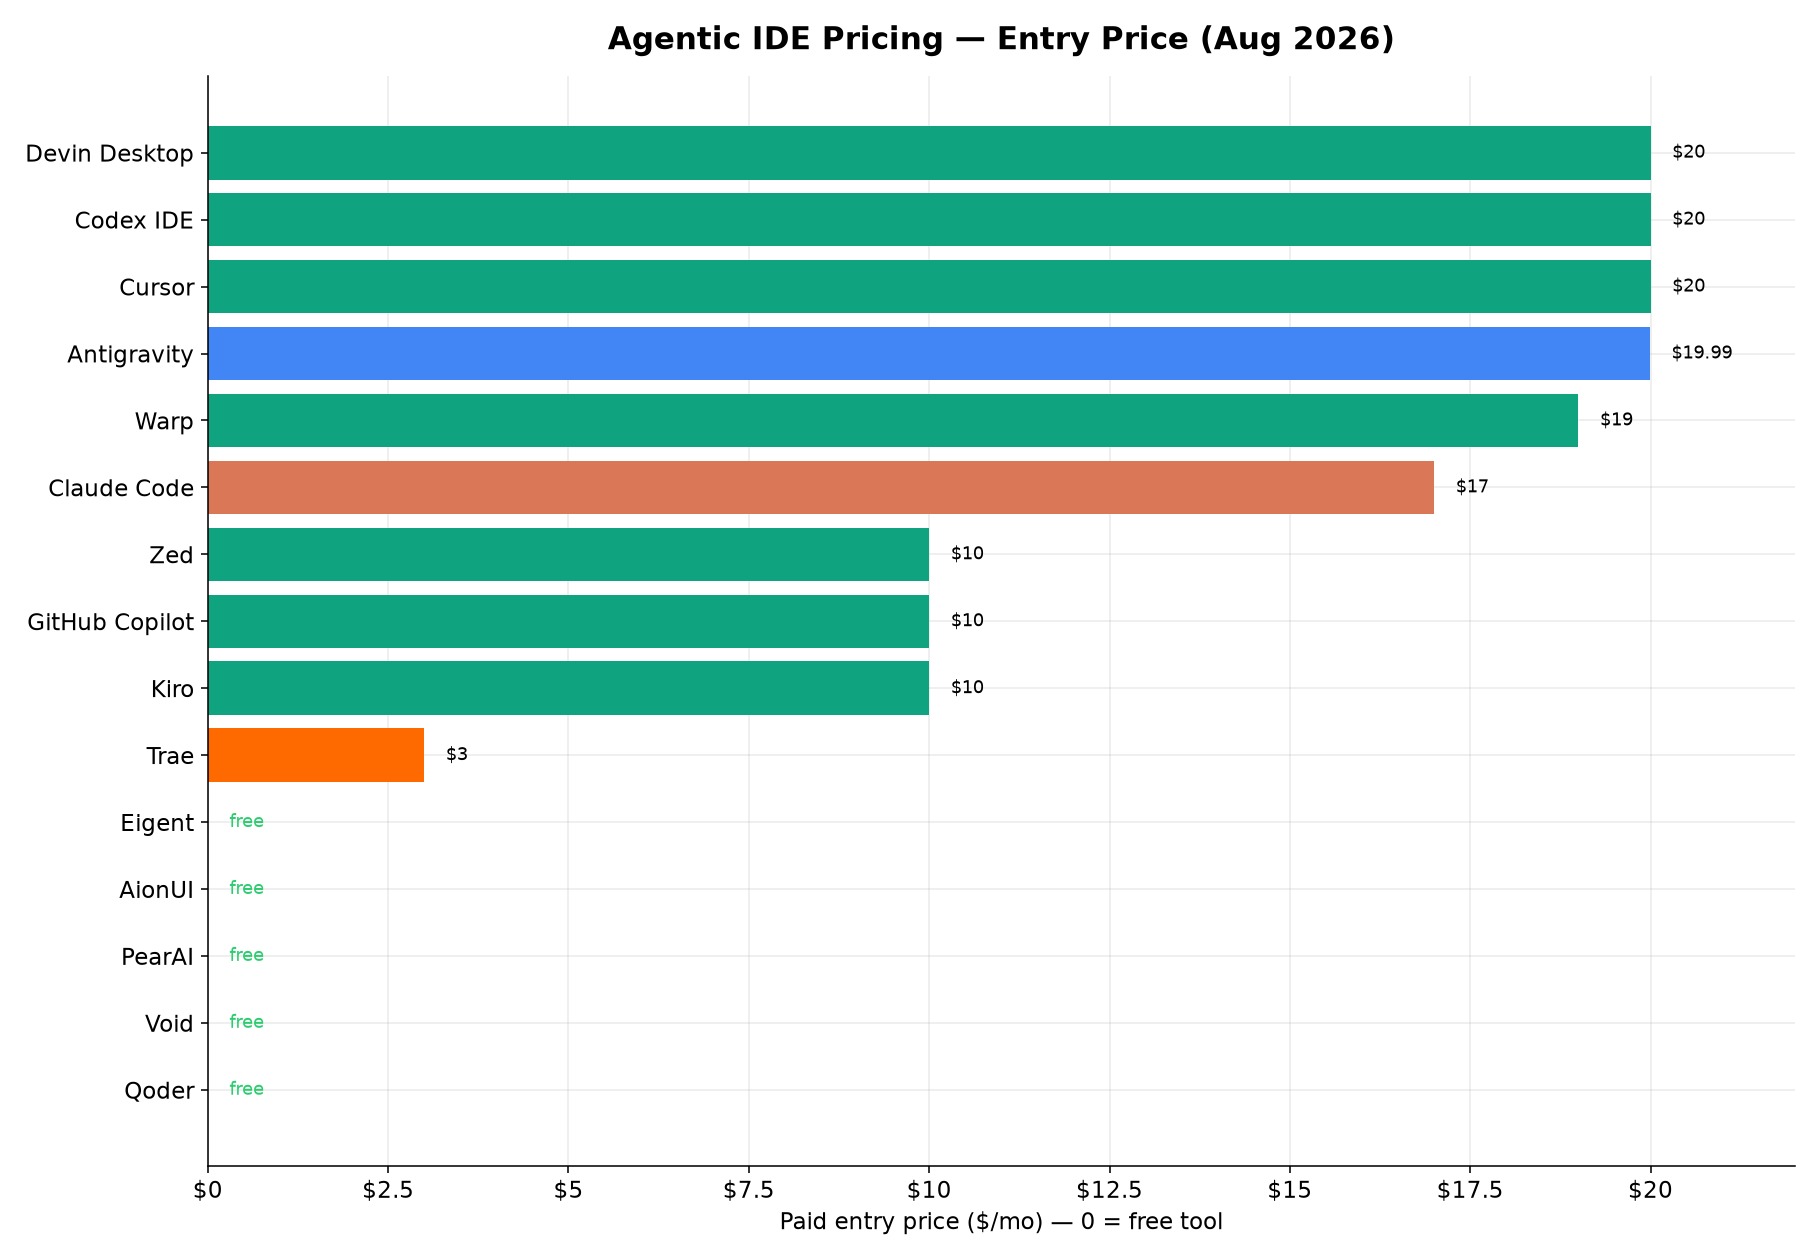
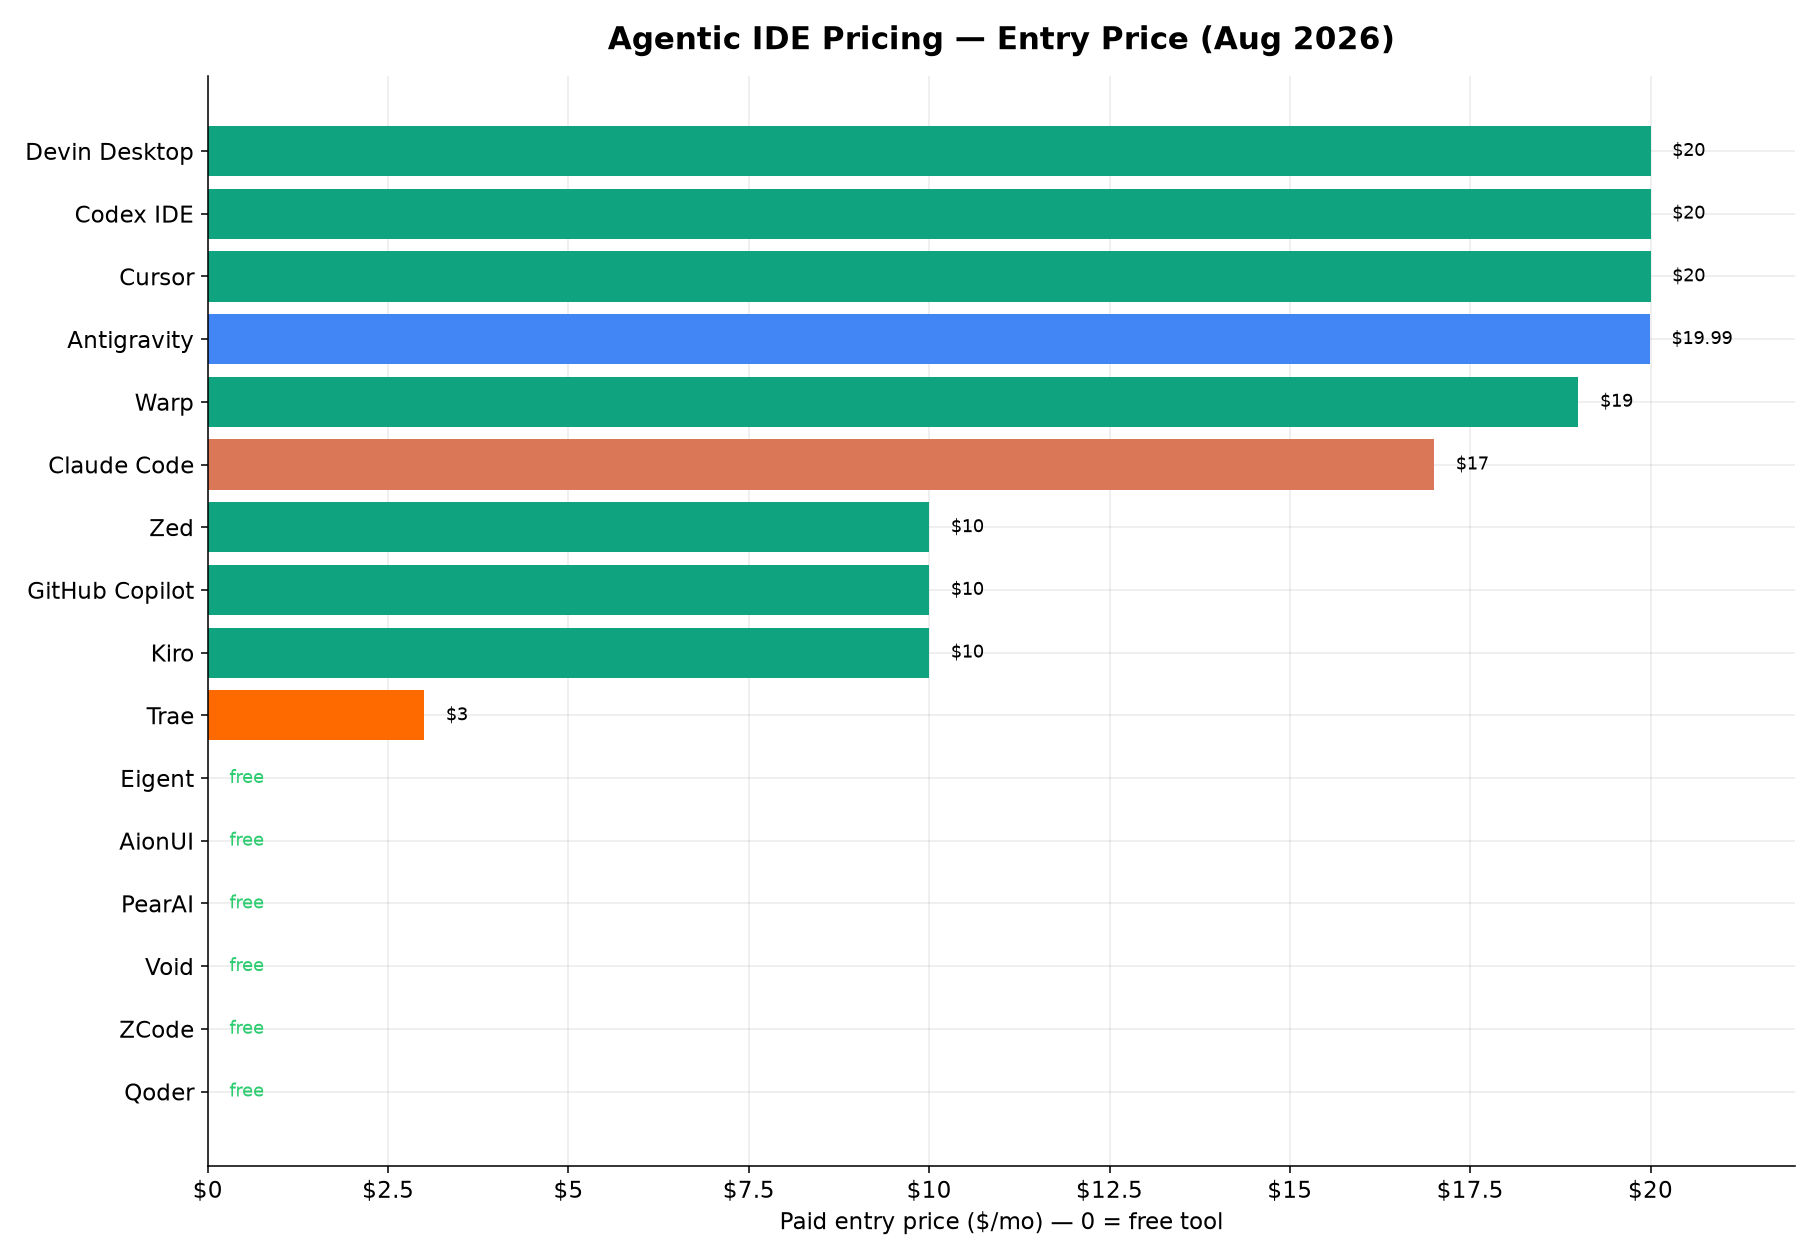
add ZCode + GLM-5.3 free access, confirm Zed student plan
GLM-5.3 (Aug 14, post-training-only on GLM-5.2 base, ~750B) verified from
z.ai blog + Interconnects; free right now via ZCode/GLM coding plan, API +
open weights in ~2 weeks. Added ZCode (Z.AI free desktop coding agent, Jul 2)
to FREE-ACCESS, AGENTS Part 2, README, and the ide-pricing chart; updated the
MODELS.md GLM-5.3 row; Zed student $10/mo credit already in CREDITS.md,
confirmed against zed.dev.

diff --git a/FREE-ACCESS.md b/FREE-ACCESS.md
@@ -1,7 +1,7 @@
 # Free API Access & Model Access — re-checked 17 August 2026
 
 > Permanent free API tiers below. For **trial-credit stacking, student/startup programs, free GPU, and subscription-as-API tricks** → [CREDITS.md](./CREDITS.md).
-> ✅ **Re-checked Aug 17, 2026** (prior pass: June 27, 2026; first Aug pass: Aug 16) — free tiers change weekly; confirm before relying. This pass added the August wave of free-AI offers surfaced on Reddit/Instagram and verified against live pages (OmniRoute, aerolink.lat, NaraRouter, LongCat-2.0, GoRouter, Tokeness, OpenRouter Fusion) and upgraded the AgentRouter/Bluesminds rows from "unverified" to caveated. Not every row was independently re-fetched this pass; where a number wasn't re-confirmed, the row says so.
+> ✅ **Re-checked Aug 17, 2026** (prior pass: June 27, 2026; first Aug pass: Aug 16) — free tiers change weekly; confirm before relying. This pass added the August wave of free-AI offers surfaced on Reddit/Instagram and verified against live pages (OmniRoute, aerolink.lat, NaraRouter, LongCat-2.0, GoRouter, Tokeness, OpenRouter Fusion), upgraded the AgentRouter/Bluesminds rows from "unverified" to caveated, and added **ZCode** (GLM-5.3 free on it since Aug 16-17). Not every row was independently re-fetched this pass; where a number wasn't re-confirmed, the row says so.
 
 ---
 
@@ -24,6 +24,7 @@ All endpoints are OpenAI SDK-compatible unless noted.
 | ★ **NVIDIA NIM** | Nemotron 3 Super, Nemotron 3 Ultra, DeepSeek-R1, Llama 405B, MiniMax M2.7, 100+ | ~40 | — | — | build.nvidia.com. NVIDIA Dev Program |
 | ★ **GitHub Models** | gpt-5, gpt-4.1, gpt-4o, o4-mini, Llama 4 Scout, DeepSeek-R1, 45+ | 10–15 | 50–150 | — | GitHub account only. 8K in / 4K out per req |
 | ★ **Z.AI** | GLM-4.7-Flash, GLM-4.6V-Flash (vision) | 1 concurrent | — | — | open.bigmodel.cn. Permanent free |
+| ★ **ZCode (Z.ai)** | **GLM-5.3 free right now**, GLM-5.2 | — | — | — | Free desktop coding agent (not an API) from Z.AI, launched Jul 2, 2026 — plan/code/review/deploy workflow around the GLM line. GLM-5.3 (released Aug 14) is currently **only** available through ZCode / the GLM Coding Plan, and it's free on ZCode as of Aug 16-17 (community-confirmed; API + open weights coming in ~2 weeks). Desktop app (Win/macOS/Linux) · zcode.z.ai |
 | ★ **Mistral** | Mistral Medium 3.5 (128B), Mistral Small 4, Codestral | ~1 RPS | — | 500K | Non-commercial, EU-hosted. The "~1B tokens/month" Experiment-tier figure is unverified — only partially confirmed by a primary source (the free chat plan with $10/mo API credit is real; the exact monthly token ceiling is not), don't treat it as a fixed number |
 | ★ **SambaNova** | DeepSeek-V3.1/V3.2, Llama 3.3 70B, gpt-oss-120b, MiniMax M2.7, Gemma 4 31B | 20 | 20 | 200K | RDU hardware. Ultra-fast. No card required |
 | ★ **HuggingFace Inference Providers** | 200+ open models via Fireworks/Together/Hyperbolic/DeepInfra — DeepSeek V4 (incl. DSpark), Qwen, Llama, Kimi, Gemma | Credit-metered | — | **$0.10/mo free credits** (free users; PRO $2/mo; Team/Enterprise $2/seat) | Corrected this pass: the prior "100K credits/mo" was stale — current official pricing is $0.10 monthly credits for free users (huggingface.co/docs/inference-providers/en/pricing). No markup, routes to best provider automatically; pay-as-you-go past the credits. **DeepSeek DSpark** (V4-Pro/V4-Flash-DSpark) is also served — same model + speculative-decoding module, 50-600% faster |
@@ -205,6 +206,7 @@ print(r.choices[0].message.content)
 | Best free trial quality | Kimi K2.6 | Moonshot trial | 80.2% SWE-bench |
 | Fastest inference | Llama 3.3 70B | Groq | ~60%, 320 tok/sec |
 | Fast trial for open models | Cerebras-hosted models | Cerebras | $5 signup credit; current sustained-free quota not published |
+| Free frontier coding (new) | **GLM-5.3** | **ZCode (free, since Aug 16-17)** | Vendor claims top Kimi K3 / near Fable 5 — free only via the coding plan for now |
 | Free 1M ctx chat | GLM-5.2 | chat.z.ai | ~72% SWE-bench |
 | Cheapest paid production | DeepSeek V4 Flash | DeepSeek API | 72%, **$0.66/M out off-peak** ($1.32 peak, since Aug 16) |
 | Google ecosystem | Gemini 3.1 Flash (or the new 3.7 Flash, free on AI Studio) | Google AI Studio | 74% SWE-bench |

diff --git a/README.md b/README.md
@@ -147,6 +147,7 @@
 | Full autonomous tasks | Manus AI | Free / $20/mo |
 | Enterprise multi-agent | Relevance AI | Free / $19/mo |
 | Free GLM-5 chat | chat.z.ai | Free |
+| **Free GLM-5.3 coding (new)** | **ZCode** (free since Aug 16–17; only place GLM-5.3 runs) | Free |
 | Code + UI + deploy | Bolt.new / Lovable | Free / $20/mo |
 
 ### Best website builders
@@ -215,6 +216,7 @@
 | Aug 2 | Qwen 3.8-Max — 2.4T MoE, $2/$6, 1M ctx |
 | Aug 12 | Qwen 3.8 open weights (text-only); Grok 4.6 ($2/$6); xAI → SpaceXAI |
 | Aug 13 | **DeepSeek V4 Pro GA** (TB 2.1 87.9, own harness); **Gemini 3.7 Flash** ($0.75/$3.75 thru 2026) |
+| Aug 14 | **GLM-5.3** (Z.AI) — same GLM-5.2 base, post-training only, ~750B; free on ZCode since Aug 16–17; open weights ~2 weeks |
 | Aug 16 | DeepSeek peak/off-peak API pricing takes effect (off-peak = half) |
 | Aug 2026 | Free-AI wave: OmniRoute (29K★, ~1.5B tok/mo), NaraRouter (5-7M tok/day), aerolink ($35/wk), LongCat-2.0 free quotas — see [FREE-ACCESS.md](./FREE-ACCESS.md) |
 | Watch | Gemini 3.5 Pro — still not GA as of Aug 12 (missed June, Jul 17, and a rumored Aug 12 date) |
@@ -246,7 +248,8 @@
 
 Quick, intuition-first digest. Details + sources live in the file each row points to.
 
-- **A new frontier model every ~3 days.** This week alone: Grok 4.6 (Aug 12), DeepSeek V4 Pro GA (Aug 13), Gemini 3.7 Flash (Aug 13). The archive's [MODELS.md](./MODELS.md) now reflects all of them — Gemini 3.7 Flash is the new free-tier workhorse on Google AI Studio, and DeepSeek V4 Pro's GA pricing (peak/off-peak, Aug 16) is roughly 3-4x the old preview price but still the cheapest way to get near-frontier quality. [MODELS.md](./MODELS.md)
+- **A new frontier model every ~3 days.** This week alone: Grok 4.6 (Aug 12), DeepSeek V4 Pro GA (Aug 13), Gemini 3.7 Flash (Aug 13), GLM-5.3 (Aug 14). The archive's [MODELS.md](./MODELS.md) now reflects all of them — Gemini 3.7 Flash is the new free-tier workhorse on Google AI Studio, and DeepSeek V4 Pro's GA pricing (peak/off-peak, Aug 16) is roughly 3-4x the old preview price but still the cheapest way to get near-frontier quality. [MODELS.md](./MODELS.md)
+- **GLM-5.3 is the free coding deal of the week.** Z.AI shipped it Aug 14 as the same GLM-5.2 base with post-training only (~750B — a third of Kimi K3), and it's free right now on **ZCode**, Z.AI's desktop coding agent (the only place it runs until the API and open weights land in ~2 weeks). Vendors claim it tops Kimi K3 and approaches Fable 5 on coding benchmarks — treat as a claim until independent runs. Also: **Zed gives students Zed Pro free for 12 months with $10/mo AI credit** (zed.dev/education, GitHub 30+ days + edu email) — already in [CREDITS.md](./CREDITS.md) Part 2.
 - **"Free AI" now means a router, not a single model.** The August wave — OmniRoute (~1.5B free tokens/mo pooled), NaraRouter (5-7M tokens/day), aerolink ($35/wk credits), LongCat-2.0 free quotas — is one gateway in front of many free tiers. Stack two or three and you effectively never pay for hobby coding. Caveats included; read the rows. [FREE-ACCESS.md](./FREE-ACCESS.md)
 - **DeepSeek's "thinking" is now tunable + faster.** V4 Pro/Flash GA adds low/high/max thinking effort (pick max only for the hard stuff) and native Responses-API/Codex support. DSpark (speculative decoding, Jun 27) makes the same model 50-600% faster to serve — grab the weights on HuggingFace. [MODELS.md](./MODELS.md)
 - **Two watch items:** Gemini 3.5 Pro still hasn't shipped (missed June, Jul 17, and a rumored Aug 12 date) — Google is shipping Flash iterations instead. And most "free credits" gateways (AgentRouter, Bluesminds, aerolink) are un-audited resellers: great for testing, not production. [MODELS.md](./MODELS.md) · [FREE-ACCESS.md](./FREE-ACCESS.md)

diff --git a/AGENTS.md b/AGENTS.md
@@ -5,8 +5,8 @@
 > isolation. The official TB 2.1 leaderboard was checked on 17 August; it uses five trials and
 > forbids submissions from changing timeouts or resources.
 > ℹ **What was refreshed on 17 Aug 2026:** Parts 1 (CLI agents — added Grok Build, corrected
-> DeepSeek pricing), 2 (IDEs — added Codex IDE, Qoder), 4 (chat interfaces — current flagship
-> models), 5 (infra — OmniRoute added), 5A (TB snapshot — Terminus-2 note), 11 (social
+> DeepSeek pricing), 2 (IDEs — added Codex IDE, Qoder, ZCode), 4 (chat interfaces — current
+> flagship models), 5 (infra — OmniRoute added), 5A (TB snapshot — Terminus-2 note), 11 (social
 > discovery — August wave usage). **Parts 6–14 (builders, deploy, quality, no-code, local
 > runners, video/music/UI) remain June-2026 content** and were not re-verified this pass.
 
@@ -230,6 +230,7 @@ AI-native terminal — not an agent, but agents run inside it. Open-sourced May 
 | **Gemini CLI** | Google | Free (60 req/min, 1,000 req/day) | Terminal agent | Google | ~106K★, Apache 2.0. A prior retirement claim in this archive was unverified and has been removed |
 | **Trae** | ByteDance | Free · Lite $3 · Pro $10 · Ultra $100/mo | SOLO mode, MCP | **5-yr retention, no opt-out** | VS Code fork |
 | **Qoder** | Alibaba | **Free** (agent platform; ∞ model access per router dashboards) | Agent Autonomous Development platform, Quest mode, context-engineered editor, MCP | Cloud (Aliyun) | Launched Sep 2025 as free AI IDE; **Qoder 1.0 May 15, 2026** upgraded it to an agentic coding platform (Win/macOS/Linux). Pricing details on qoder.com |
+| **ZCode** | Z.AI / Zhipu | **Free** (GLM coding plan; paid plans exist) | Agentic desktop coding env — plan/code/review/deploy, GLM-5.2/5.3 | Cloud (Z.AI) | Launched Jul 2, 2026 as Z.AI's free coding agent vs Cursor/Claude Code/Copilot (VentureBeat). **GLM-5.3 (Aug 14) is free on ZCode right now** — it's the only place GLM-5.3 runs (API + open weights in ~2 weeks); GLM-5.2 was the launch model. zcode.z.ai |
 | **Void** | Void | Free | Agent Mode (multi-file, terminal) | **No telemetry, fully local** | Open-source VS Code fork |
 | **PearAI** | PearAI | Free BYOK | Full agentic, Continue-based | BYOK = local keys | Open-source VS Code fork |
 | **Zed** | Zed Industries | Personal free (2,000 edit predictions/mo, unlimited with your own key) · Pro $10 · Business $30/seat | ACP — run any agent natively | Open-source | Open agent ecosystem |

diff --git a/plan.md b/plan.md
@@ -217,6 +217,26 @@ offers, and an audit of benchmark claims. Work is intentionally divided by evide
   `Yash-Awasthi/Claude-skill` remained (in SKILLS.md's removal note); the note was reworded to
   drop the dead URL. The gist "404" is a grep artifact (gist.github.com host) — real URL works.
 
+## ZCode / GLM-5.3 / Zed pass — 17 Aug 2026 (user: "Zed $10 student plan; ZCode gives GLM free; GLM-5.3 free on 17 Aug")
+
+- **GLM-5.3 (Aug 14, 2026) verified from primary sources** (z.ai blog + Interconnects, Aug 14):
+  same GLM-5.2 base, gains entirely from extended post-training (~750B, a third of Kimi K3).
+  Currently available ONLY through ZCode / the GLM Coding Plan — no public API price; API and
+  open weights (HF) expected in ~2 weeks. Staged security release (cyber-defense capabilities,
+  dual-use) — selected partners first, then API, then full weights. Vendor claims: tops Kimi K3
+  on many benchmarks, some scores above Fable 5 / GPT-5.6-Sol — treated as claims, not
+  independently reproduced.
+- **ZCode added** (FREE-ACCESS.md Table 1 + use-case table, AGENTS.md Part 2, README quick-ref +
+  digest, ide-pricing chart at $0): Z.AI's free desktop coding agent, launched Jul 2, 2026
+  (VentureBeat). GLM-5.3 free on it since Aug 16-17 (community-confirmed — "GLM 5.3 Is Now FREE
+  On ZCode" walkthroughs). MODELS.md Z.AI row updated from "no price published" to the release
+  + free-access facts.
+- **Zed student plan — already present, confirmed**: CREDITS.md Part 2 already carries "Zed
+  Education — Zed Pro free 12 months + $10/mo AI credit (GitHub 30+ days, edu email)", which
+  matches zed.dev/blog/student-plan + zed.dev/education (Mar 9, 2026). No edit needed; noted in
+  the README digest for visibility.
+- **Charts regenerated** after adding ZCode to `data/extra_charts.json` (ide_pricing).
+
 ## What this repo actually is
 
 A set of hand-maintained markdown tables (frontend/backend/models/agents/free-access/credits)

diff --git a/MODELS.md b/MODELS.md
@@ -149,7 +149,7 @@
 ### Z.AI (Zhipu)
 | Model | SWE-bench | In/Out $/1M | Context | Access |
 |---|---|---|---|---|
-| GLM-5.3 | — | — | — | Id confirmed live on docs.z.ai llms.txt this pass; no price or SWE-bench number published there |
+| GLM-5.3 | — | — | — | **Released Aug 14, 2026** — same GLM-5.2 base, gains entirely from extended post-training (~750B, a third of Kimi K3's size). "Built to Code. Ready for Cyber Defense" — Z.AI reports it tops Kimi K3 on many benchmarks and some scores above Claude Fable 5 / GPT-5.6-Sol (vendor claims, not independently reproduced). **Currently free via ZCode / GLM Coding Plan** (the only availability — no public API price yet); API + open weights on HF coming (~2 weeks per Interconnects). Staged security release: selected partners first, then API, then full weights (cyber-defense capabilities, dual-use). Id confirmed live on docs.z.ai llms.txt |
 | GLM-5.2 | ~72% [V] | $1.40/$4.40 | 1M (unverified) | Corrected from a prior $0.14/$0.28 (10x error). API is paid — chat.z.ai and Puter.js are free front-ends, not a free API tier |
 | GLM-5.1 | 81.0% [V] | $1.40/$4.40 | 200K (unverified) | API paid. Context not on the official pricing doc |
 | GLM-5 | — | — | — | Id + price ($1.00/$3.20) confirmed on docs.z.ai llms.txt; no SWE-bench or context published there |
